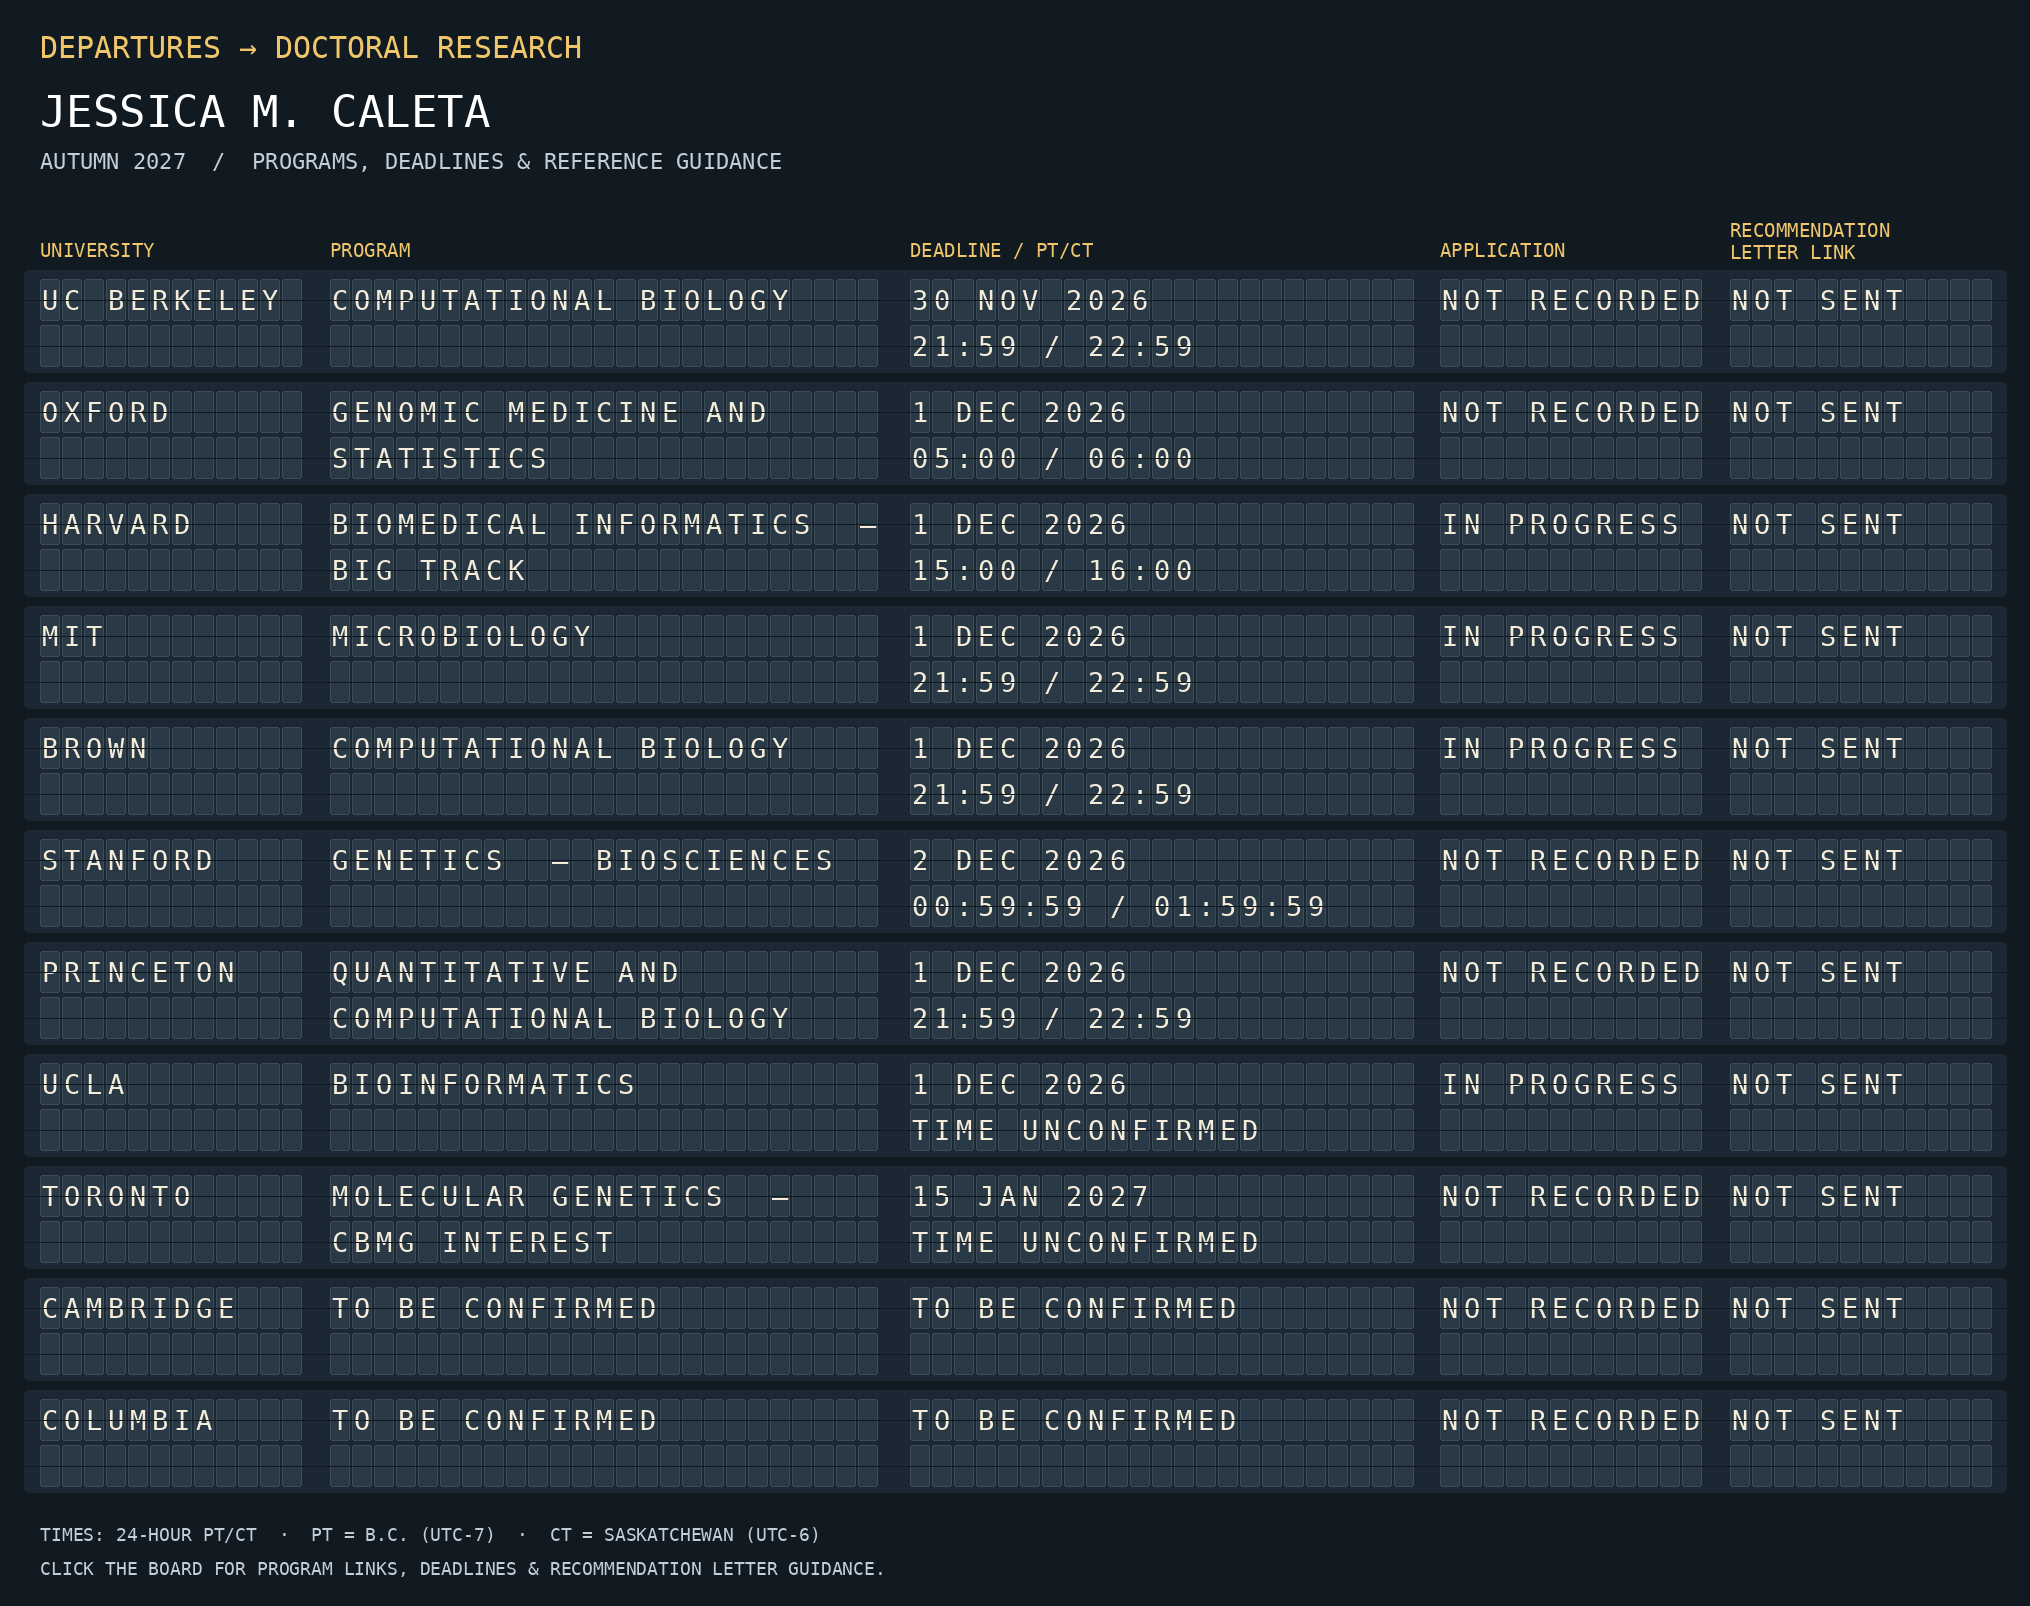
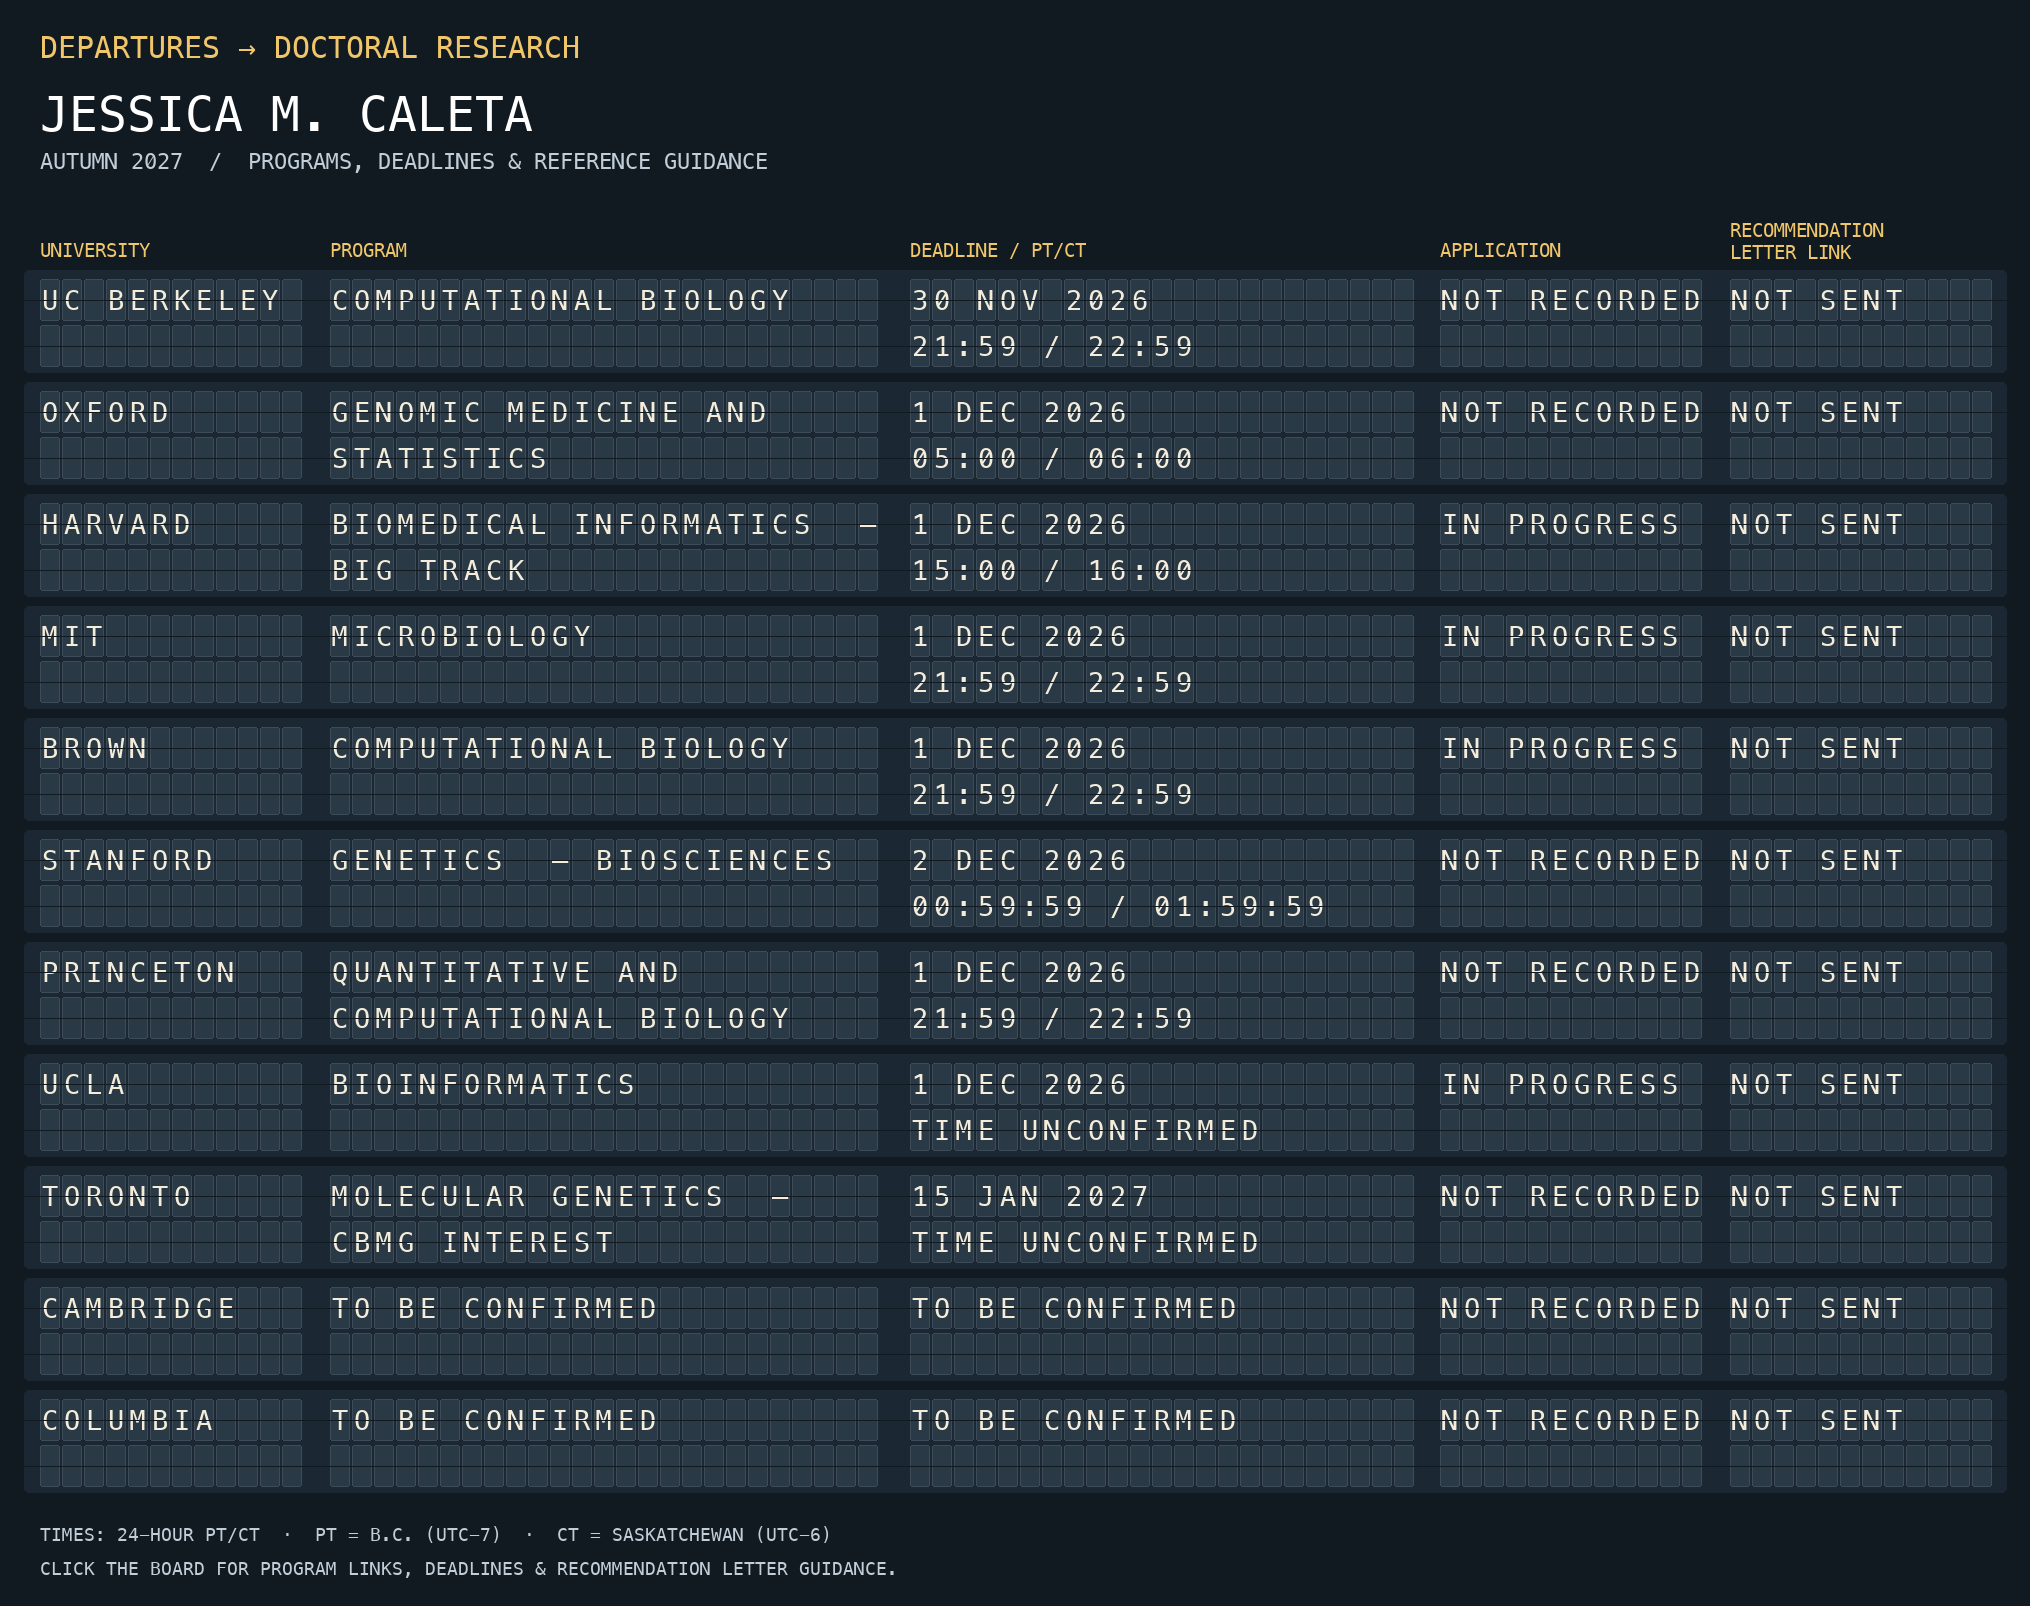
Prevent duplicated navigation without README title and enlarge name

diff --git a/scripts/render_board.py b/scripts/render_board.py
@@ -18,10 +18,14 @@ nav='''<p align="center">
 </p>
 '''
 # A visual Markdown editor can flatten the linked HTML signs. Restore their source markup.
-first_break=readme.index('\n\n')
 board_line=next(line for line in readme.splitlines() if 'assets/application-board.gif' in line)
 board_at=readme.index(board_line)
-readme=readme[:first_break+2]+nav+'\n'+readme[board_at:]
+prefix=readme[:board_at]
+# Replace existing sign groups, independently of whether a title exists.
+prefix=re.sub(r'<p\b[^>]*>.*?</p>', lambda m: '' if re.search(r'assets/(?:academic-cv|research-brief|program-guide)-sign\.png',m[0]) else m[0], prefix, flags=re.S)
+# Also handle signs flattened into one Markdown image line by visual editors.
+prefix='\n'.join(line for line in prefix.splitlines() if not re.search(r'assets/(?:academic-cv|research-brief|program-guide)-sign\.png',line)).rstrip()
+readme=(prefix+'\n\n' if prefix else '')+nav+'\n'+readme[board_at:]
 # Keep the board link working even if a visual editor flattens its Markdown wrapper.
 linked_board='[![Click the flight board to open Program Info: program links, deadlines, and recommendation-letter guidance](assets/application-board.gif)](Program_Info.md)'
 readme=readme.replace(board_line,linked_board,1)

diff --git a/scripts/render_animation.py b/scripts/render_animation.py
@@ -28,7 +28,7 @@ base=Image.new('RGB',(W,H),'#111921');d=ImageDraw.Draw(base)
 def label(x,y,t,size=20,color='#c1ced8'):
     d.text((x,y),t,font=font(size),fill=color)
 label(40,30,'DEPARTURES → DOCTORAL RESEARCH',30,'#f0c66a')
-label(40,86,'JESSICA M. CALETA',44,'#ffffff')
+label(40,86,'JESSICA M. CALETA',48,'#ffffff')
 label(40,148,'AUTUMN 2027  /  PROGRAMS, DEADLINES & REFERENCE GUIDANCE',22)
 for (kind,x,n),name in zip(COLS,['UNIVERSITY','PROGRAM','DEADLINE / PT/CT','APPLICATION','RECOMMENDATION']):
     if kind=='links':

diff --git a/README.md b/README.md
@@ -1,10 +1,3 @@
-
-<p align="center">
-<a href="Jessica_Caleta_Academic_CV.pdf"><img src="assets/academic-cv-sign.png" alt="Academic CV — qualifications and publications" width="32%"></a>
-<a href="Research_Brief.md"><img src="assets/research-brief-sign.png" alt="Research brief — interests and experience" width="32%"></a>
-<a href="Program_Info.md"><img src="assets/program-guide-sign.png" alt="Program guide — deadlines and references" width="32%"></a>
-</p>
-
 <p align="center">
 <a href="Jessica_Caleta_Academic_CV.pdf"><img src="assets/academic-cv-sign.png" alt="Academic CV — qualifications and publications" width="32%"></a>
 <a href="Research_Brief.md"><img src="assets/research-brief-sign.png" alt="Research brief — interests and experience" width="32%"></a>
